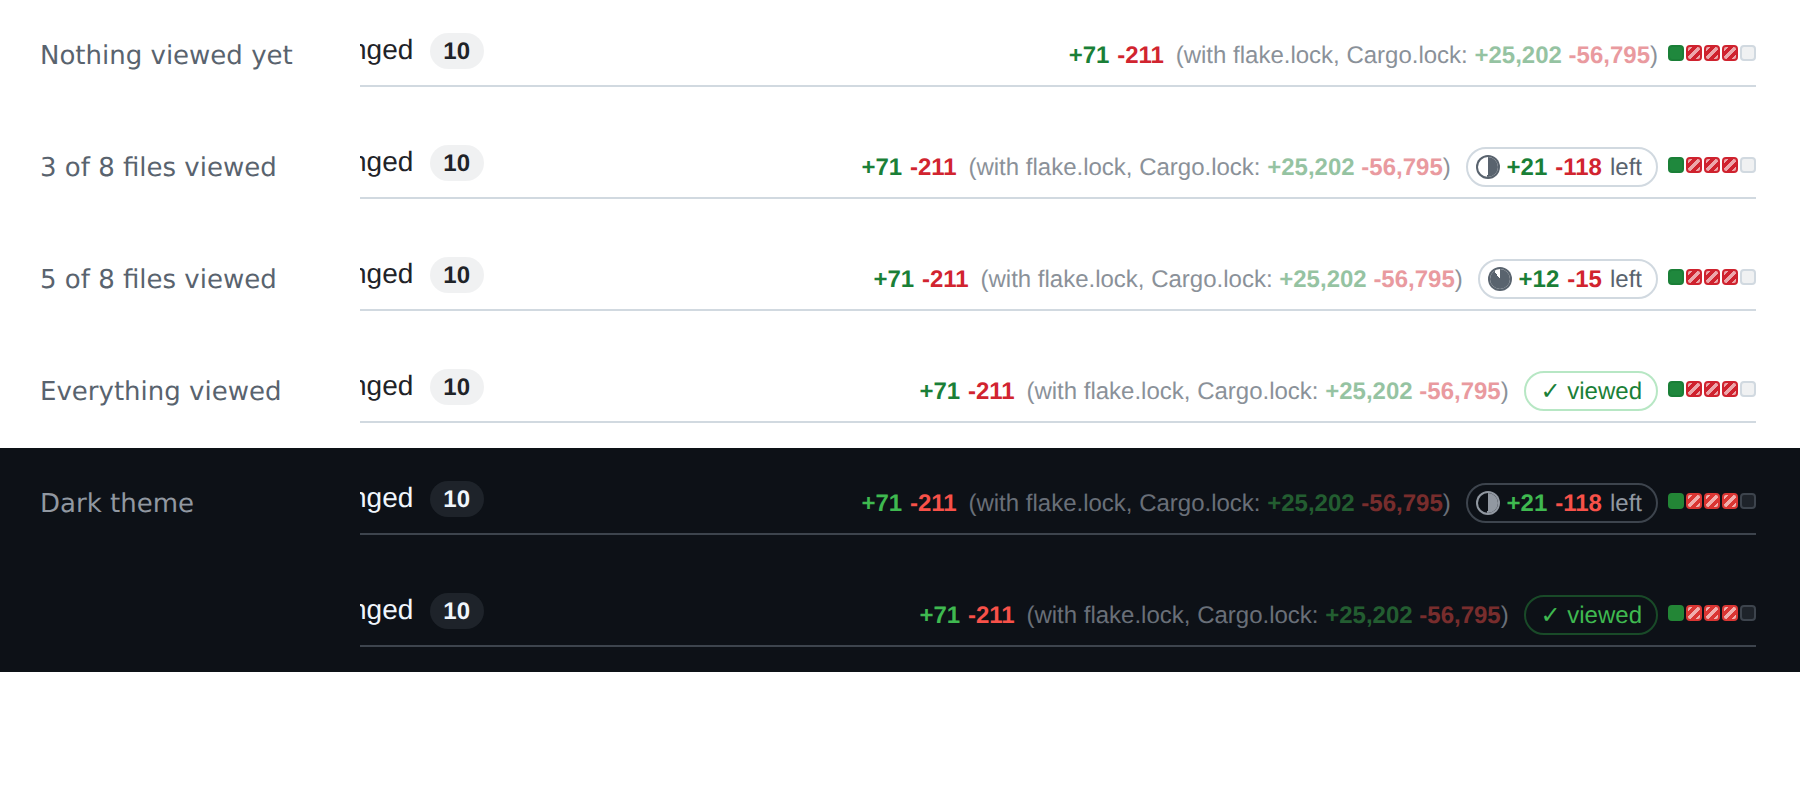
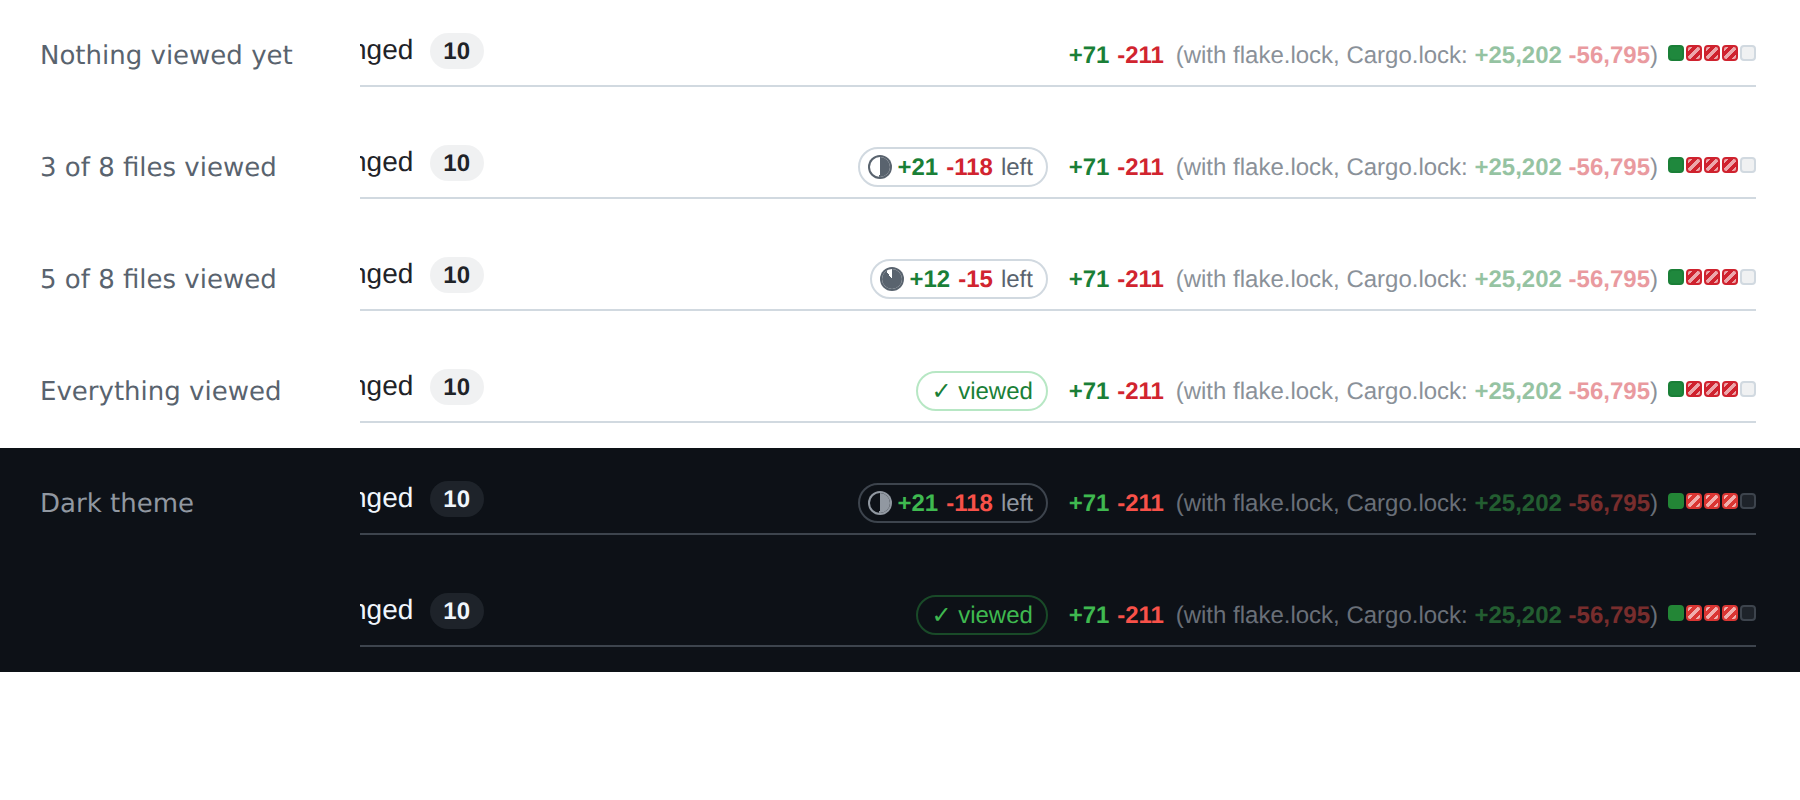
Put the left-to-review pill before the diffstat (#2)
The numbers now keep their place at the right edge when the pill
appears. GitHub's own numbers are always replaced by the badge, so the
pill can lead on PRs without excluded files as well.

diff --git a/src/content.js b/src/content.js
@@ -208,18 +208,24 @@
     return pill;
   }
 
-  // Once some files are marked as viewed, a pill with what is left to review follows. When no
-  // file is excluded, the badge is just that pill, next to GitHub's untouched numbers.
-  // Otherwise it takes the place of GitHub's numbers (which get hidden) and keeps them in brackets:
-  //   +71 −211 (with flake.lock, Cargo.lock: +25,202 −56,795)
+  // Takes the place of GitHub's own numbers (which get hidden). Once some files are marked as
+  // viewed, a pill with what is left to review comes first; with excluded files, the filtered
+  // numbers are shown and the originals are kept in brackets:
+  //   ◔ +30 −12 left +71 −211 (with flake.lock, Cargo.lock: +25,202 −56,795)
   function renderBadge(pair, stats) {
     const badge = document.createElement('span');
     badge.className = BADGE_CLASS;
     if (stats.relevant) badge.title = tooltip(stats);
 
     const minus = pair.del.textContent.trim()[0] === '-' ? '-' : '\u2212';
+    // The pill leads, so the numbers keep their place at the right edge as it comes and goes.
+    if (stats.review) badge.append(renderReview(pair, stats.review, minus), ' ');
     if (!stats.relevant) {
-      badge.append(renderReview(pair, stats.review, minus));
+      badge.append(
+        countSpan(pair.add, `+${fmt(stats.total.additions)}`),
+        ' ',
+        countSpan(pair.del, `${minus}${fmt(stats.total.deletions)}`),
+      );
       return badge;
     }
     const orig = document.createElement('span');
@@ -238,7 +244,6 @@
       ' ',
       orig,
     );
-    if (stats.review) badge.append(' ', renderReview(pair, stats.review, minus));
     return badge;
   }
 
@@ -293,7 +298,7 @@
       if (pair.additions !== stats.total.additions || pair.deletions !== stats.total.deletions) continue;
       if (stats.relevant || stats.review) {
         placeBadge(pair, renderBadge(pair, stats));
-        setHidden(pair, stats.relevant);
+        setHidden(pair, true);
       } else {
         setHidden(pair, false);
         const existing = pair.del.nextElementSibling;

diff --git a/src/content.css b/src/content.css
@@ -21,7 +21,7 @@
   display: inline-flex;
   align-items: center;
   gap: 4px;
-  margin-left: 4px;
+  margin-right: 6px;
   padding: 0 7px 0 5px;
   border: 1px solid var(--borderColor-default, var(--color-border-default, #d1d9e0));
   border-radius: 999px;

diff --git a/README.md b/README.md
@@ -13,7 +13,7 @@ Hover over the numbers to see which files were excluded and their line counts. T
 appear only when at least one file matches **and** at least one doesn't, so a PR that only
 bumps `flake.lock` keeps GitHub's plain numbers.
 
-Once you mark files as *Viewed*, a pill next to the diffstat shows what is left to review: the
+Once you mark files as *Viewed*, a pill to the left of the diffstat shows what is left to review: the
 line counts without the viewed files, and a pie that fills up with the share of lines you have
 been through. It turns into a green *✓ viewed* when nothing is left. Hover over it to see the
 viewed files. This needs a token (see below).
